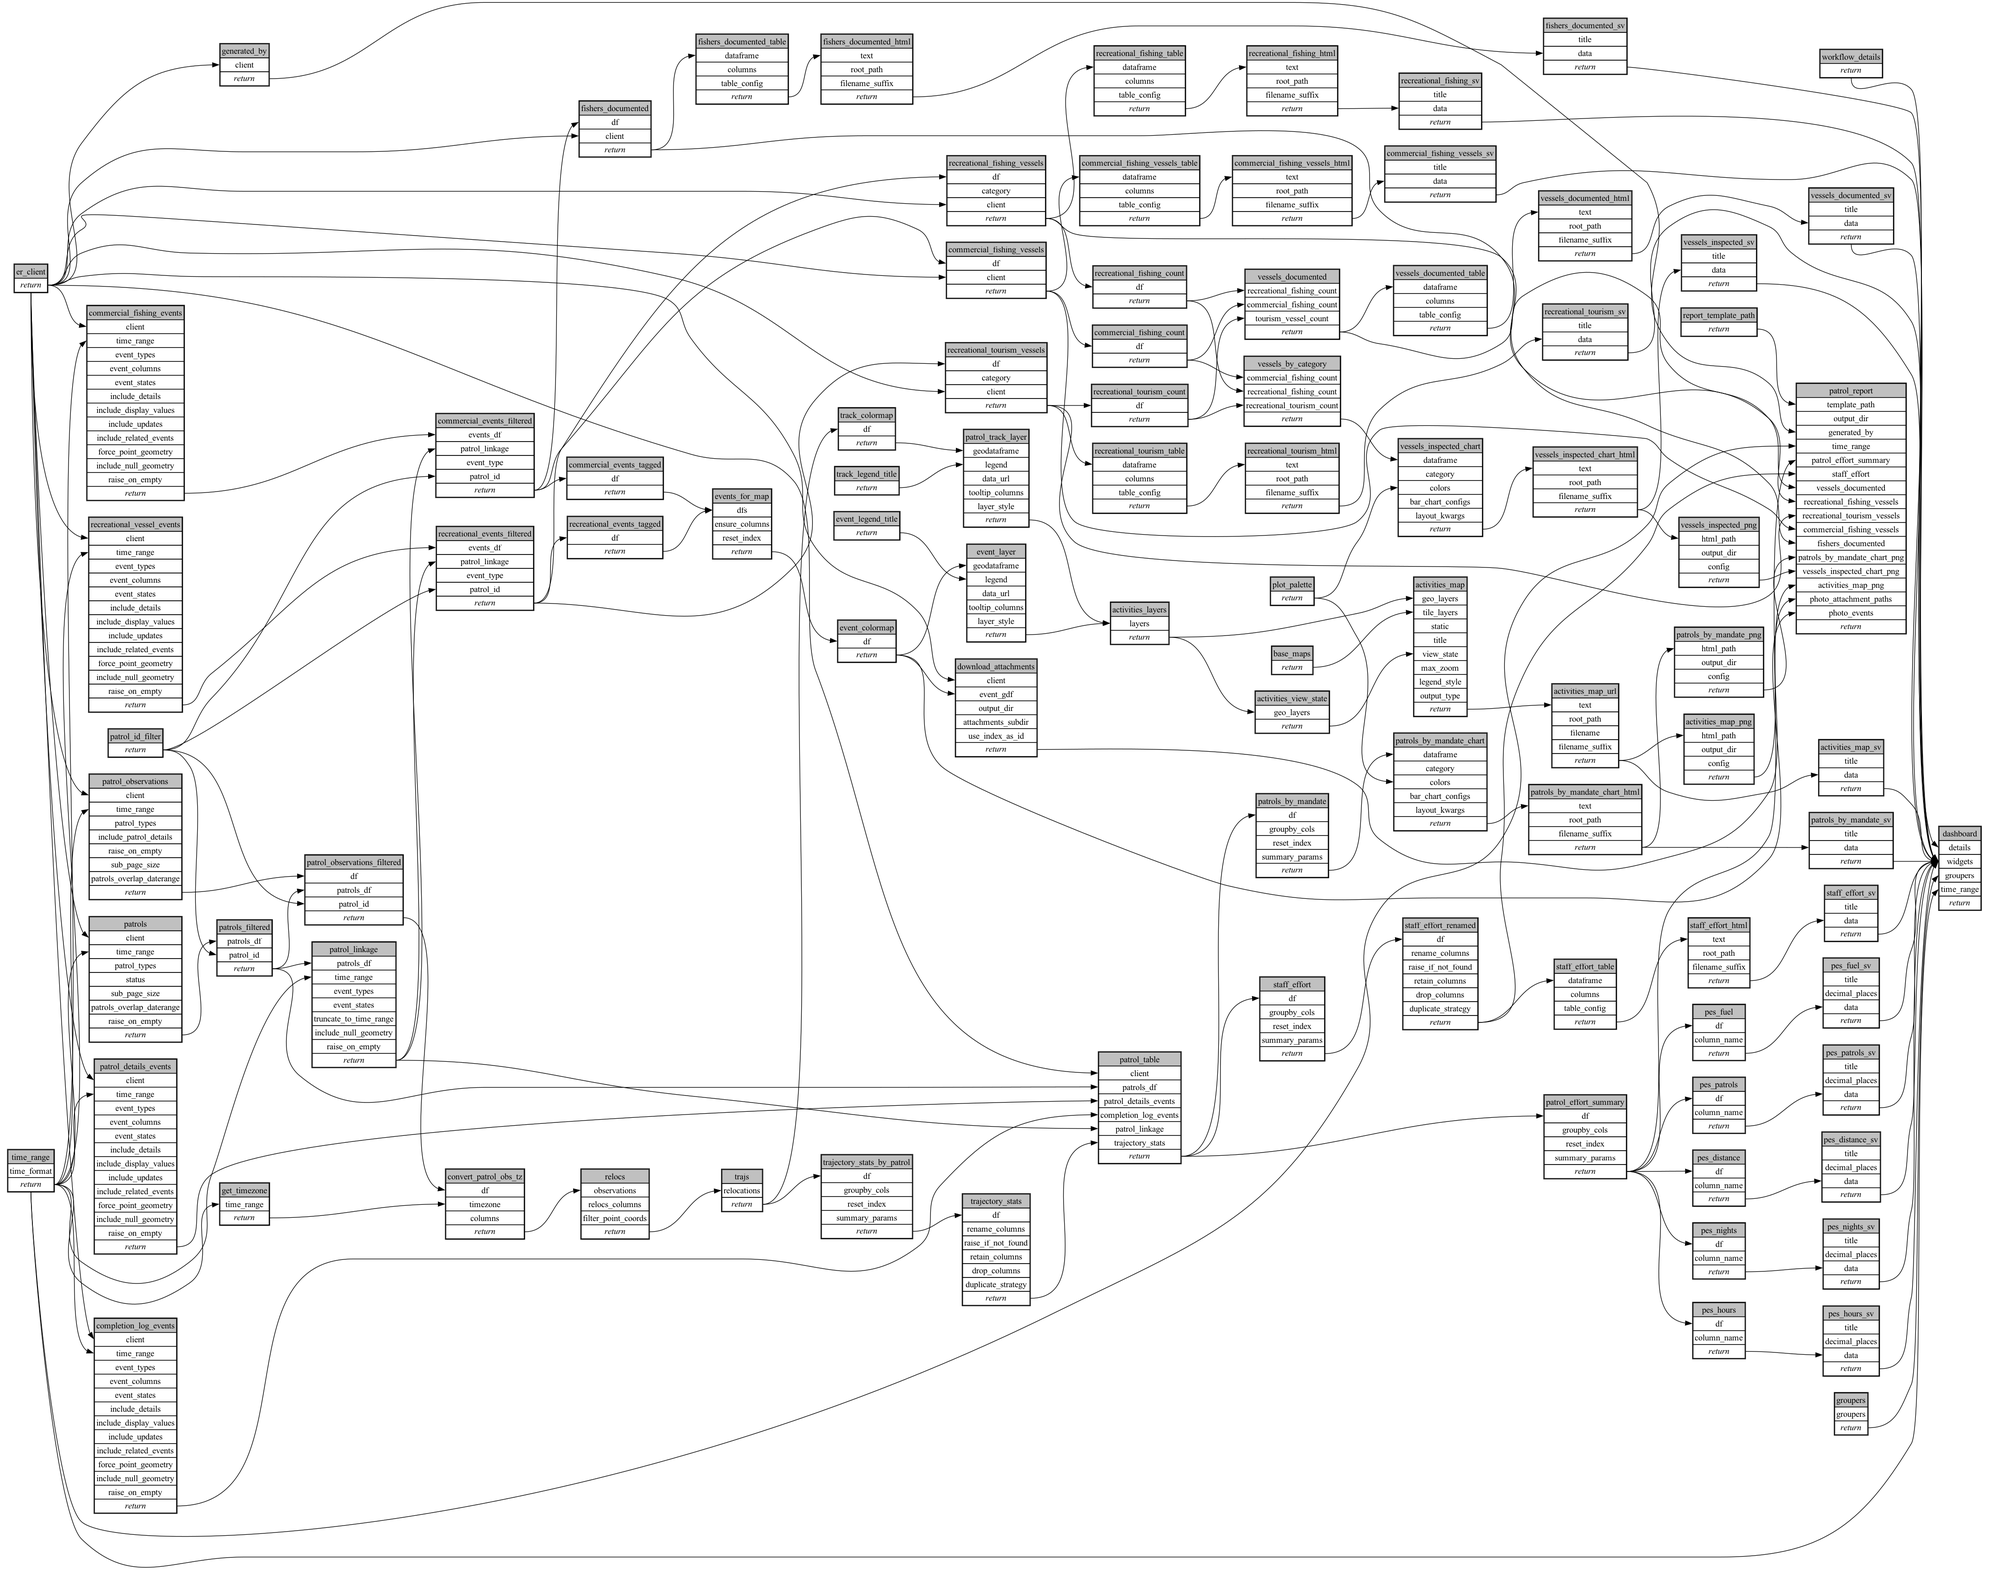
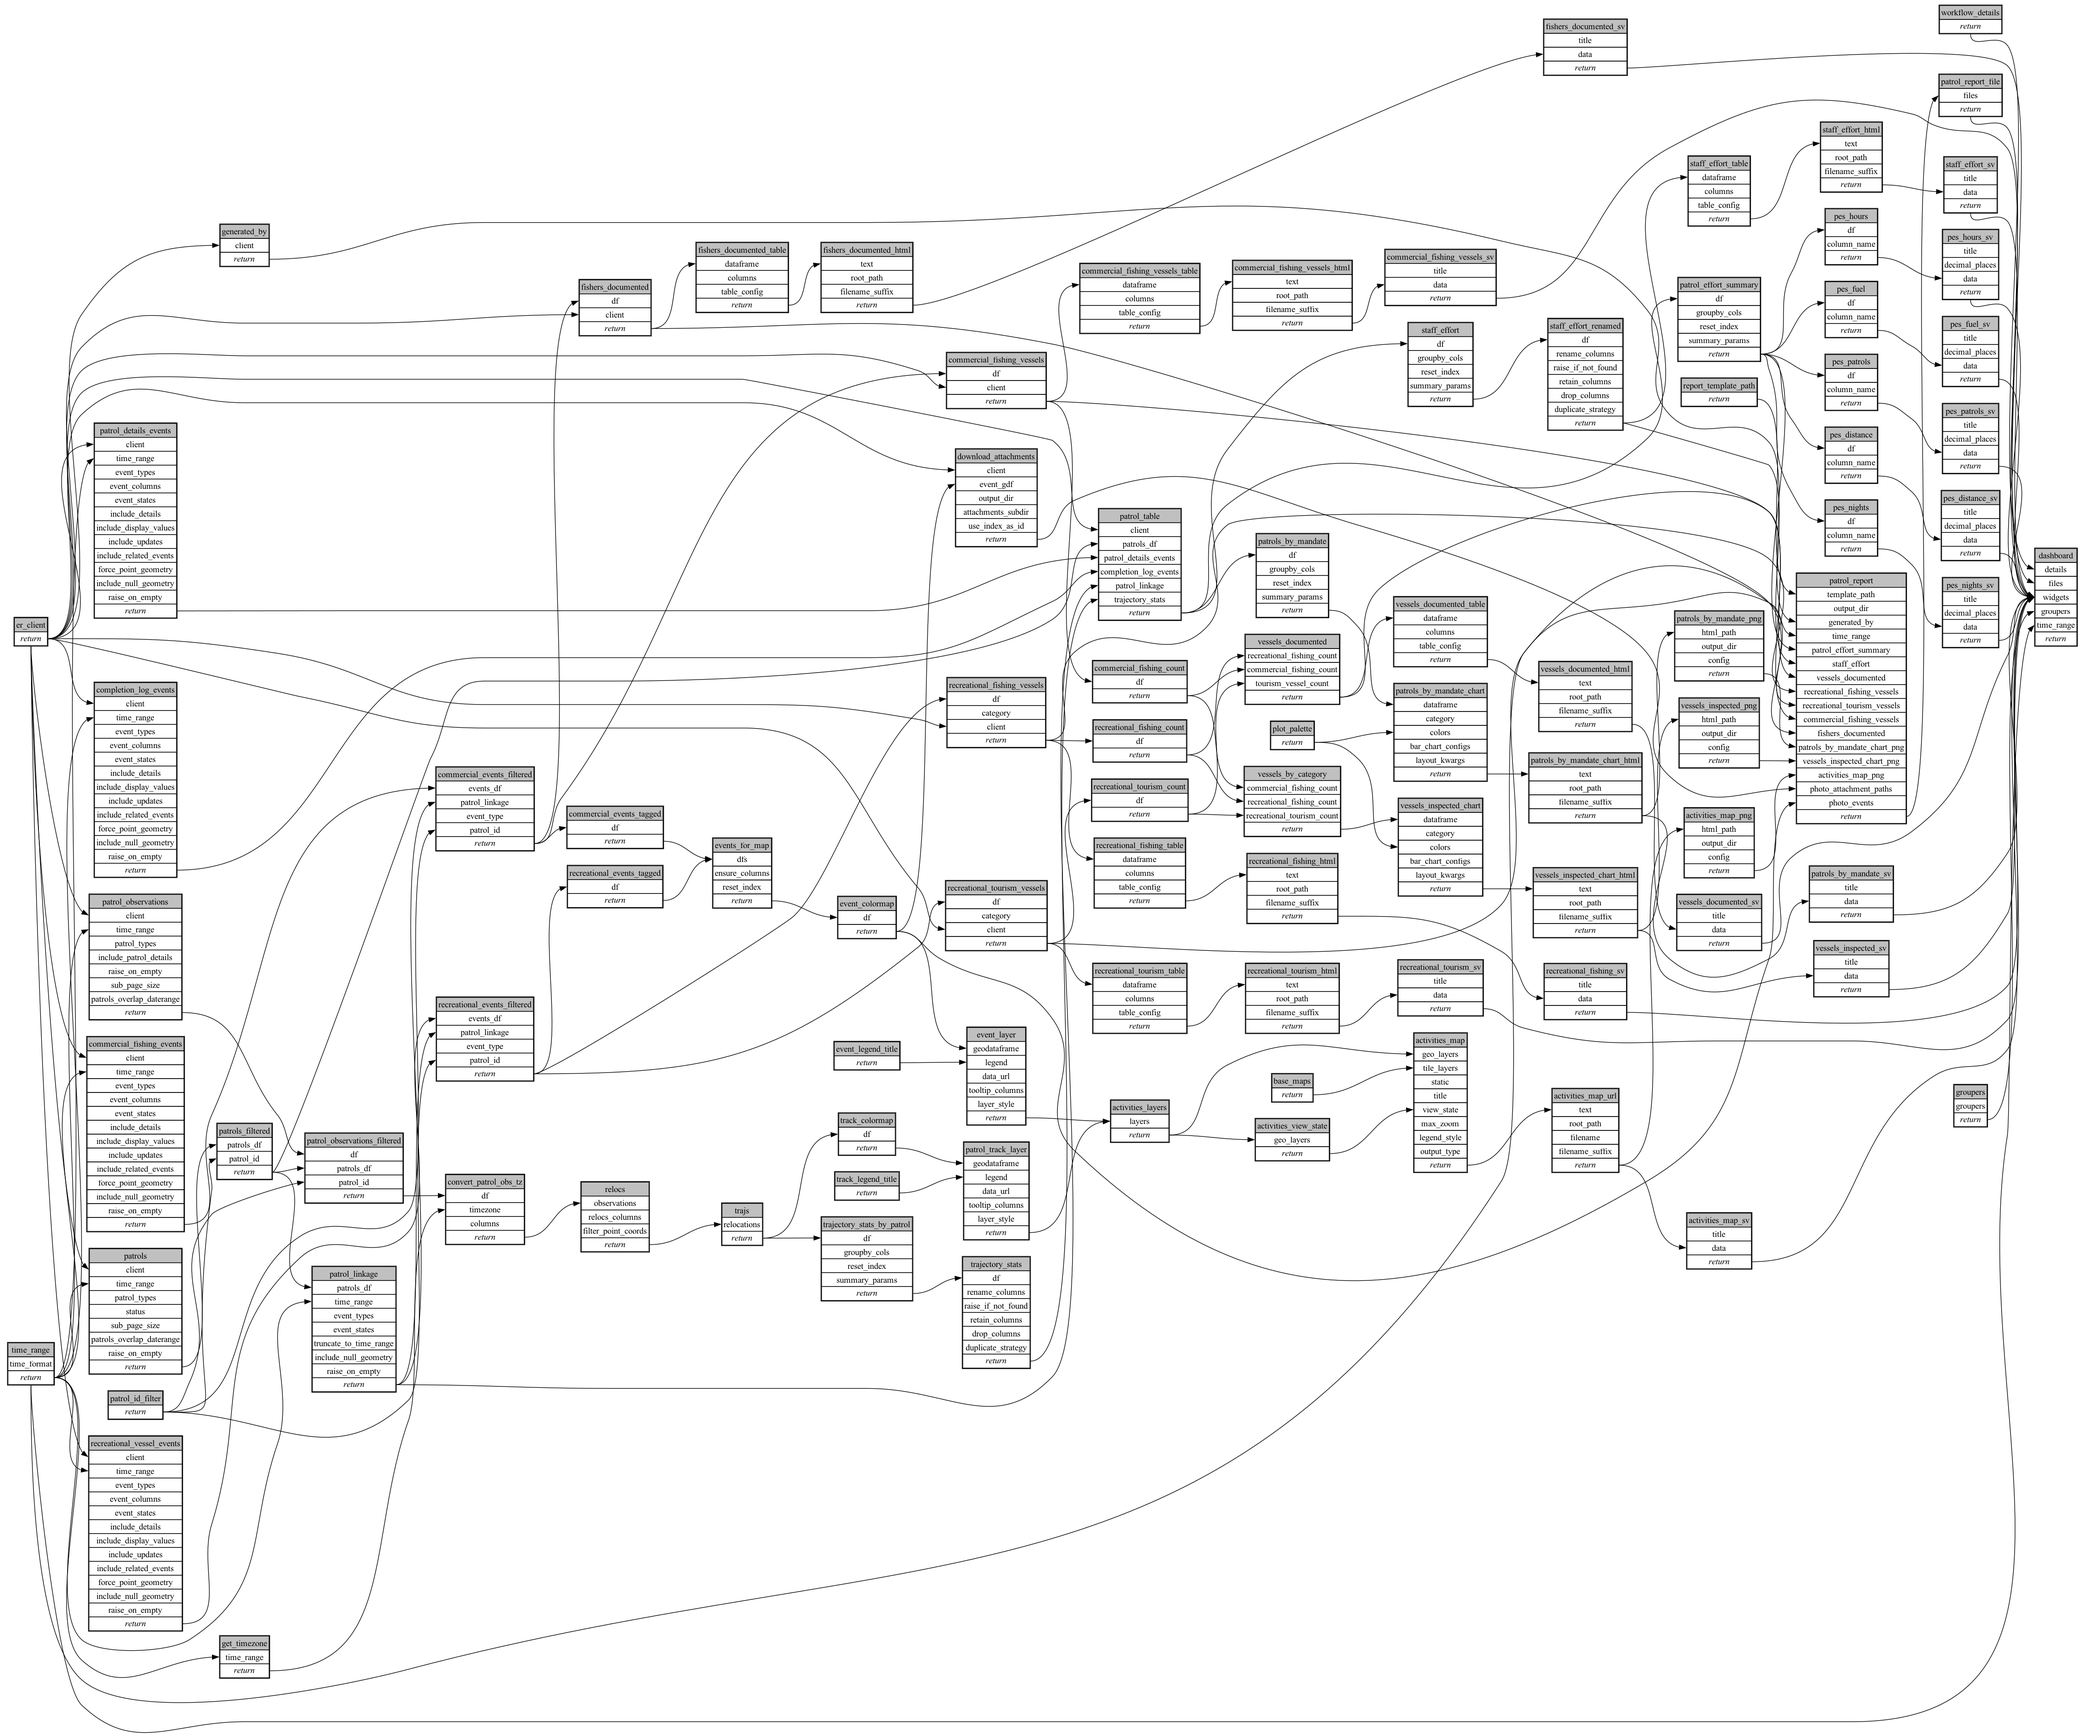
Recompile the workflow package against published belize-v0.0.3

diff --git a/ecoscope-workflows-belize-patrol-report-workflow/ecoscope_workflows_belize_patrol_report_workflow/dags/run_sequential.py b/ecoscope-workflows-belize-patrol-report-workflow/ecoscope_workflows_belize_patrol_report_workflow/dags/run_sequential.py
@@ -31,6 +31,9 @@ from ecoscope.platform.tasks.preprocessing import (
     relocations_to_trajectory as relocations_to_trajectory,
 )
 from ecoscope.platform.tasks.results import (
+    create_files_single_view as create_files_single_view,
+)
+from ecoscope.platform.tasks.results import (
     create_map_widget_single_view as create_map_widget_single_view,
 )
 from ecoscope.platform.tasks.results import create_path_layer as create_path_layer
@@ -2327,6 +2330,23 @@ def main(params: dict[str, Any], validate_params_schema: bool = True):
         .call()
     )
 
+    patrol_report_file = (
+        task(create_files_single_view)
+        .validate()
+        .set_task_instance_id("patrol_report_file")
+        .handle_errors()
+        .with_tracing()
+        .skipif(
+            conditions=[
+                any_is_empty_df,
+                any_dependency_skipped,
+            ],
+            unpack_depth=1,
+        )
+        .partial(files=patrol_report, **(params.get("patrol_report_file") or {}))
+        .call()
+    )
+
     dashboard = (
         task(gather_belize_dashboard)
         .validate()
@@ -2342,6 +2362,7 @@ def main(params: dict[str, Any], validate_params_schema: bool = True):
         )
         .partial(
             details=workflow_details,
+            files=[patrol_report_file],
             widgets=[
                 pes_patrols_sv,
                 pes_distance_sv,

diff --git a/ecoscope-workflows-belize-patrol-report-workflow/ecoscope_workflows_belize_patrol_report_workflow/dags/run_sequential_mock_io.py b/ecoscope-workflows-belize-patrol-report-workflow/ecoscope_workflows_belize_patrol_report_workflow/dags/run_sequential_mock_io.py
@@ -156,6 +156,9 @@ get_report_generated_by = create_func_magicmock(  # 🧪
     anchor="ecoscope_workflows_ext_belize.tasks",  # 🧪
     func_name="get_report_generated_by",  # 🧪
 )  # 🧪
+from ecoscope.platform.tasks.results import (
+    create_files_single_view as create_files_single_view,
+)
 from ecoscope_workflows_ext_belize.tasks import (
     gather_belize_dashboard as gather_belize_dashboard,
 )
@@ -2367,6 +2370,23 @@ def main(params: dict[str, Any], validate_params_schema: bool = True):
         .call()
     )
 
+    patrol_report_file = (
+        task(create_files_single_view)
+        .validate()
+        .set_task_instance_id("patrol_report_file")
+        .handle_errors()
+        .with_tracing()
+        .skipif(
+            conditions=[
+                any_is_empty_df,
+                any_dependency_skipped,
+            ],
+            unpack_depth=1,
+        )
+        .partial(files=patrol_report, **(params.get("patrol_report_file") or {}))
+        .call()
+    )
+
     dashboard = (
         task(gather_belize_dashboard)
         .validate()
@@ -2382,6 +2402,7 @@ def main(params: dict[str, Any], validate_params_schema: bool = True):
         )
         .partial(
             details=workflow_details,
+            files=[patrol_report_file],
             widgets=[
                 pes_patrols_sv,
                 pes_distance_sv,

diff --git a/ecoscope-workflows-belize-patrol-report-workflow/README.md b/ecoscope-workflows-belize-patrol-report-workflow/README.md
@@ -5,8 +5,8 @@
 
 ```yaml
 # fingerprint:
-artifacts_sha256_basic: 6a54bab42e013014ae058fbac497cea8c2784c67c898c0ed9070733fa70c0ac7
-artifacts_sha256_strict: c41490de37b91c0cdaa22265f10d199a2bf629f82b902cec4b7bd7eb8eb84bb0
+artifacts_sha256_basic: 1e075072ad38cf2dba581ae2f3f6c3d581c2765c1da1dcaf0044765bb2c94fb0
+artifacts_sha256_strict: fb02d989d2c11934348e34953e7148e3a366808eb4cce886df51cb4f029523ad
 installed_requirements:
 - channel: https://repo.prefix.dev/ecoscope-workflows/
   name: ecoscope-platform
@@ -17,11 +17,11 @@ installed_requirements:
 - channel: conda-forge
   name: pydeck
   version: {version: ==0.9.2}
-- channel: file:///tmp/ecoscope-workflows-custom/release/artifacts/
+- channel: https://repo.prefix.dev/ecoscope-workflows-custom/
   name: ecoscope-workflows-ext-belize
-  version: {version: ==0.0.2}
+  version: {version: ==0.0.3}
 params_sha256: 5fb283a5b7694af145322359ed9b62eba85403ba37771a91aa8c7b030767b085
-spec_sha256: 24d97172c36b7327f96248eee97babdca58a96605685bf24451174dfc5c9427e
+spec_sha256: 19b68100ff5599f8e3c2392bd5b06f52a04ab234744d7ee4e6488953fafa060c
 
 ```
 
